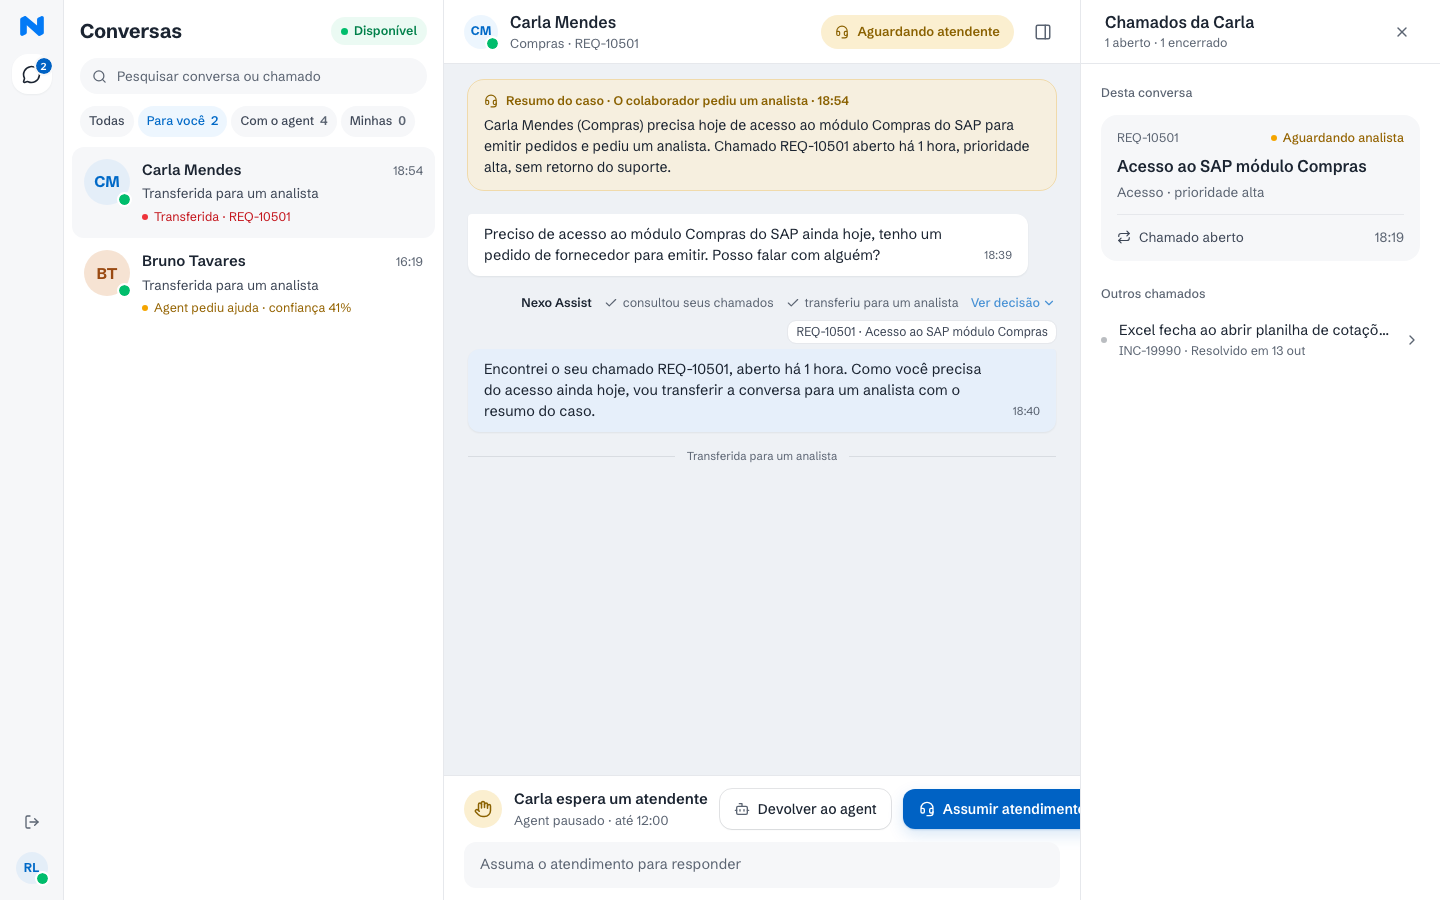
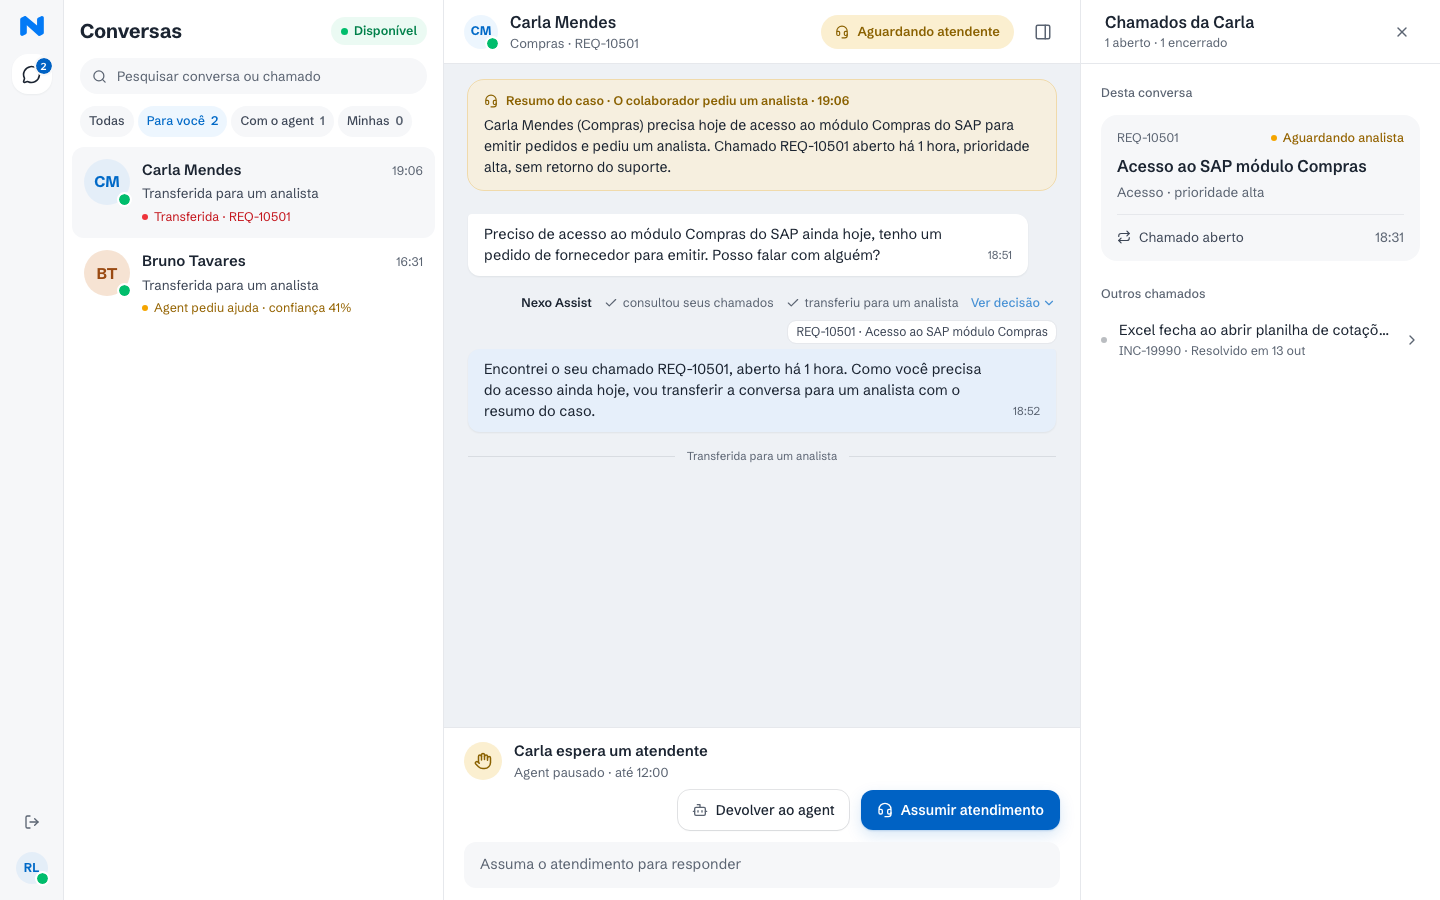
fix(console): keep 'Assumir atendimento' inside the pane at 1440px and retake screenshots

Changed region(s): [[0.3125, 0.8089, 0.75, 0.9333], [0.2188, 0.1244, 0.2812, 0.1556]]

diff --git a/apps/web/src/components/console/conversation-pane.tsx b/apps/web/src/components/console/conversation-pane.tsx
@@ -23,7 +23,7 @@ const PILL: Record<StatusTone, string> = {
 }
 
 const outlined =
-  'flex h-10 whitespace-nowrap items-center gap-2 rounded-lg bg-surface px-3.5 text-[14px] font-medium text-ink shadow-button outline outline-1 -outline-offset-[.5px] outline-border-strong hover:bg-surface-muted disabled:opacity-50'
+  'flex h-10 shrink-0 whitespace-nowrap items-center gap-2 rounded-lg bg-surface px-3.5 text-[14px] font-medium text-ink shadow-button outline outline-1 -outline-offset-[.5px] outline-border-strong hover:bg-surface-muted disabled:opacity-50'
 
 type Props = {
   data: ConsoleConversationResponse | null
@@ -162,30 +162,30 @@ export function ConversationPane({
 
       <footer className="shrink-0 border-t border-border bg-surface px-5 py-3">
         {c.state === 'waiting_analyst' && (
-          <div className="mb-3 flex items-center gap-3">
+          <div className="mb-3 flex flex-wrap items-center gap-x-3 gap-y-2">
             <span className="grid size-[38px] shrink-0 place-items-center rounded-full bg-warning-bg text-warning-ink">
               <Hand className="size-[18px]" aria-hidden="true" />
             </span>
-            <div className="flex-1">
-              <p className="text-[15px] font-semibold whitespace-nowrap text-ink">
-                {firstName} espera um atendente
-              </p>
-              <p className="text-[13px] whitespace-nowrap text-ink-muted">
+            <div className="min-w-[200px] flex-1">
+              <p className="text-[15px] font-semibold text-ink">{firstName} espera um atendente</p>
+              <p className="text-[13px] text-ink-muted">
                 Agent pausado{data.waitingUntil ? ` · até ${formatTime(data.waitingUntil)}` : ''}
               </p>
             </div>
-            <button onClick={onGiveBack} disabled={busy} className={outlined}>
-              <Bot className="size-4 text-ink-muted" aria-hidden="true" />
-              Devolver ao agent
-            </button>
-            <button
-              onClick={onTakeOver}
-              disabled={busy}
-              className="flex h-10 items-center gap-2 rounded-lg bg-primary-600 whitespace-nowrap px-4 text-[14px] font-semibold text-white shadow-cta hover:bg-primary-700 disabled:opacity-50"
-            >
-              <Headset className="size-4" aria-hidden="true" />
-              Assumir atendimento
-            </button>
+            <div className="ml-auto flex gap-3">
+              <button onClick={onGiveBack} disabled={busy} className={outlined}>
+                <Bot className="size-4 text-ink-muted" aria-hidden="true" />
+                Devolver ao agent
+              </button>
+              <button
+                onClick={onTakeOver}
+                disabled={busy}
+                className="flex h-10 shrink-0 items-center gap-2 rounded-lg bg-primary-600 whitespace-nowrap px-4 text-[14px] font-semibold text-white shadow-cta hover:bg-primary-700 disabled:opacity-50"
+              >
+                <Headset className="size-4" aria-hidden="true" />
+                Assumir atendimento
+              </button>
+            </div>
           </div>
         )}
         <ReplyBox enabled={mine} hint={hintFor(c.state, mine)} onSend={onReply} key={c.id} />
